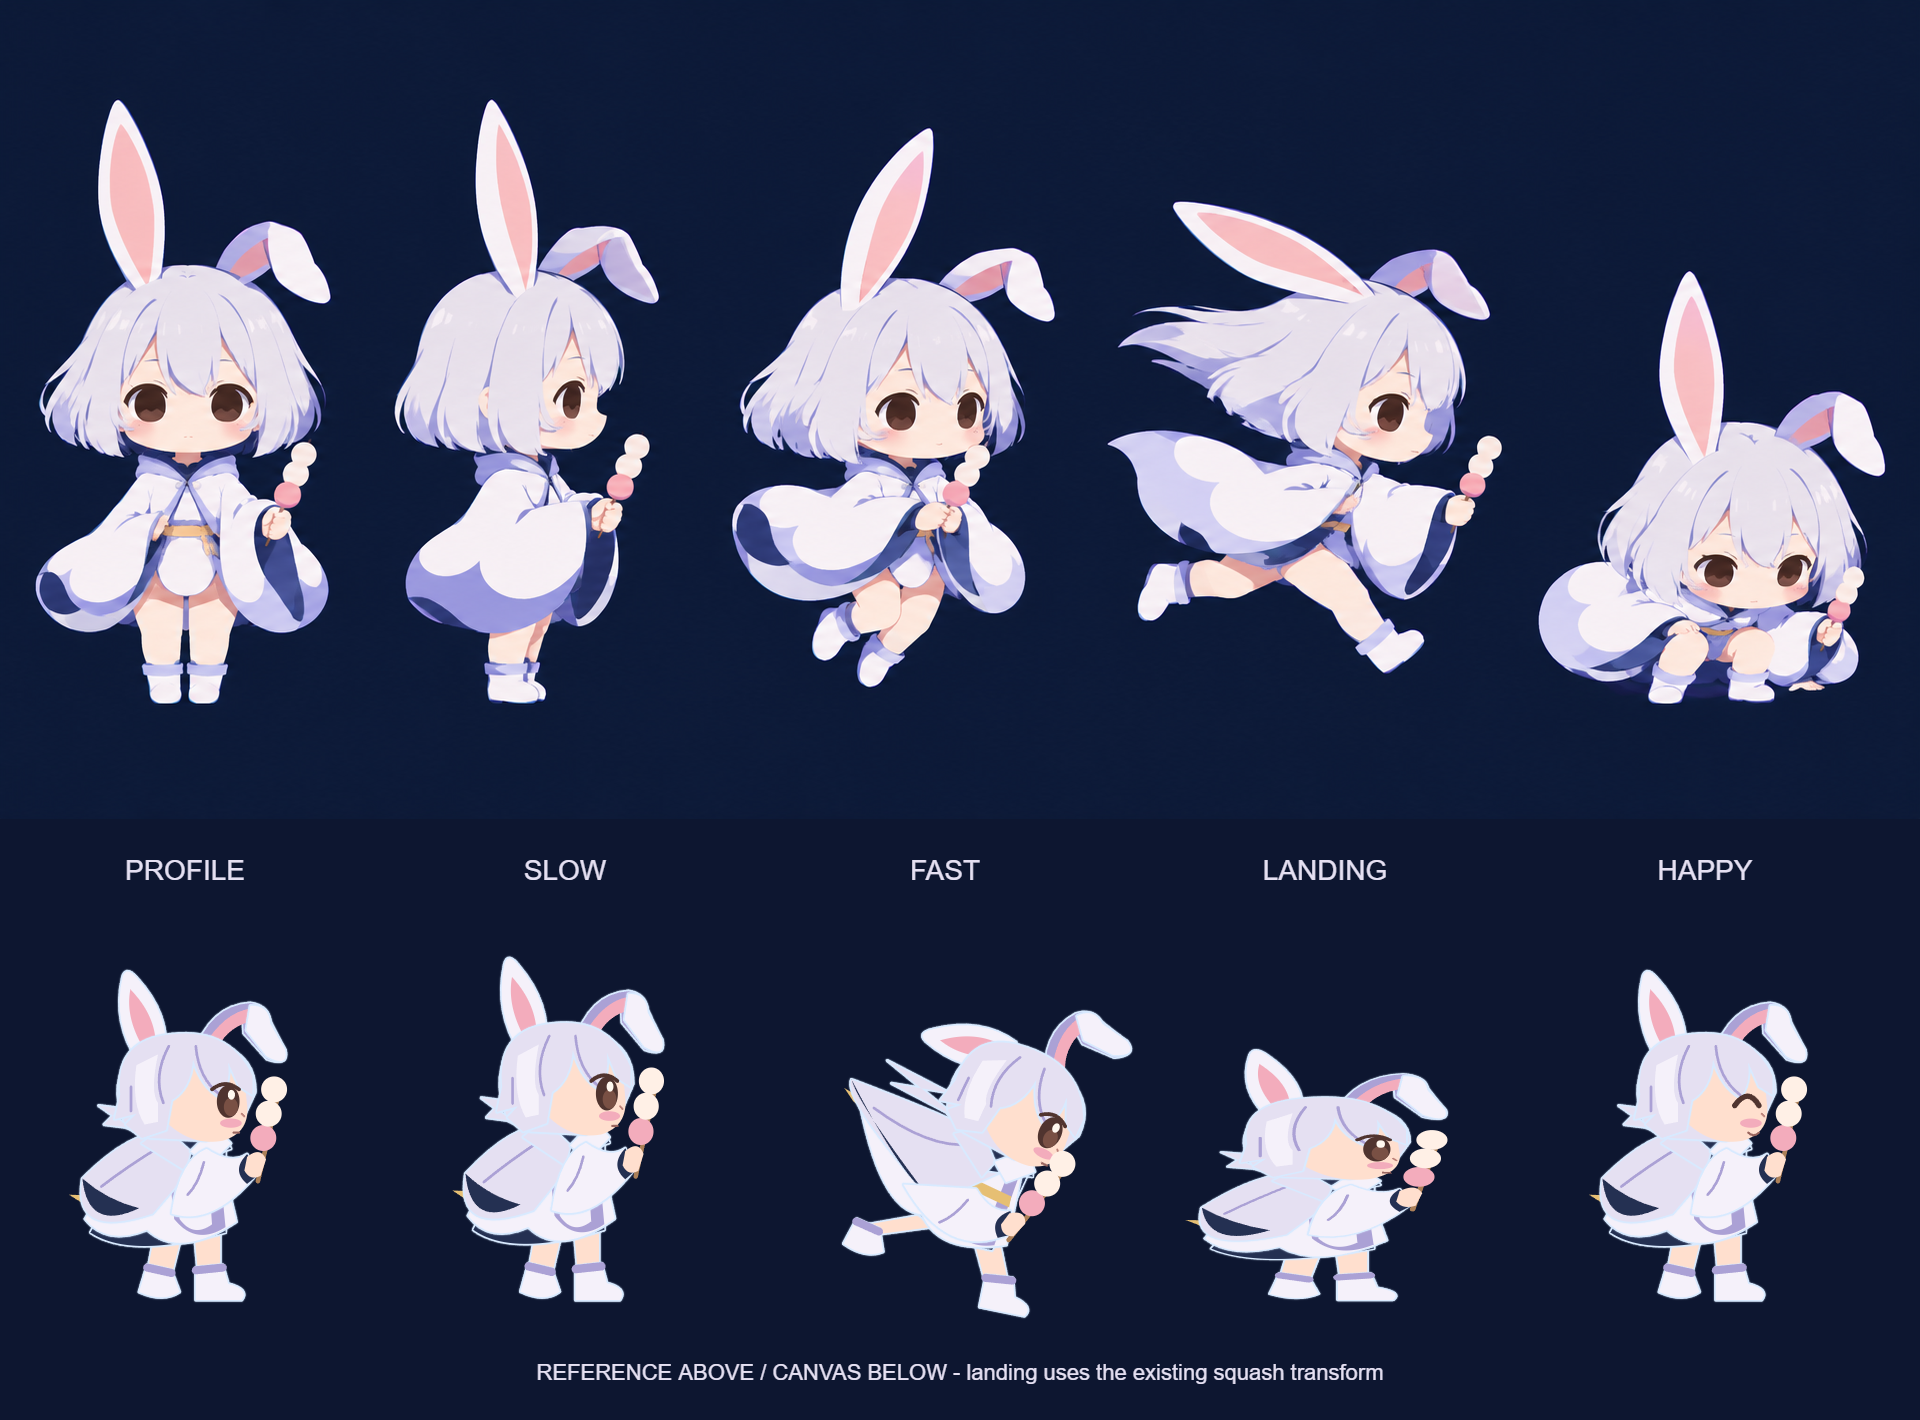
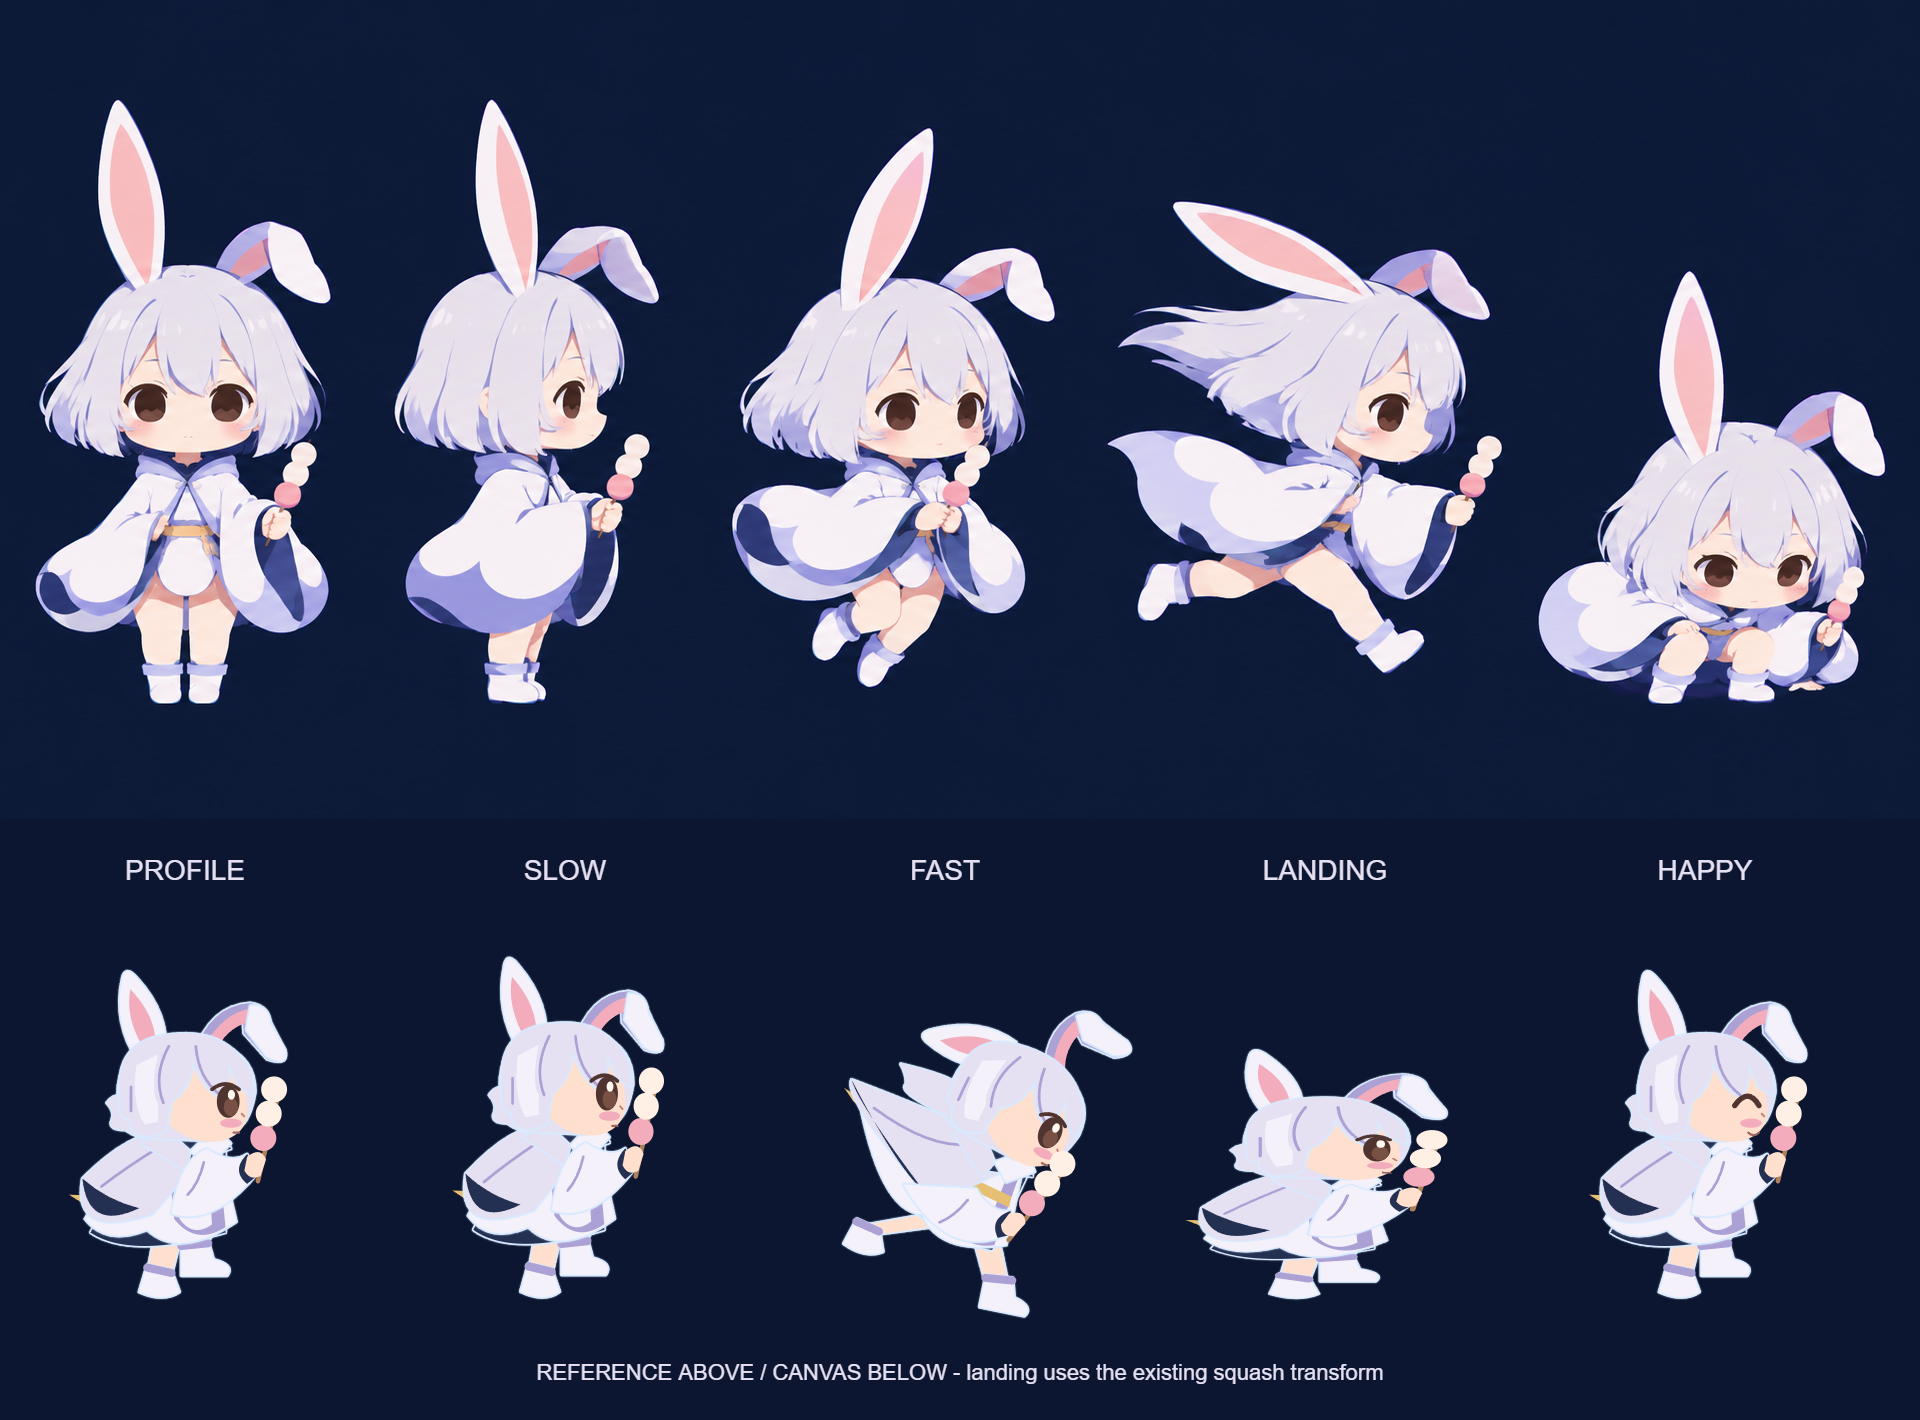
feat: Michiru sprite poses cut from the reference sheet (v0.2 polish)
Compare a refined Canvas Michiru (A) against transparent sprites cut from
michiru-sheet.png (B) in the built game at 360x640 and 320x700, and adopt B:
distinct SLOW knee-up, FAST streak, deep landing crouch and a closed-eye
happy face on the clear card. The Canvas drawing stays as the load-failure
fallback and gains a crouch, a SLOW knee tuck and rounded hair tips.
Physics, hit boxes, jump period and landing points are unchanged.

diff --git a/scripts/make_michiru_sprites.py b/scripts/make_michiru_sprites.py
@@ -1,0 +1,94 @@
+"""Cut Michiru's pose sprites out of the generated reference sheet.
+
+Reads art/generated/michiru/michiru-sheet.png (flat navy background), keys out only the
+background region connected to the image border, un-mixes the navy from soft edges and
+writes one transparent atlas: assets/img/michiru-sprites.png (+ the frame table printed
+for src/game.mjs). Requires Pillow and numpy; run from anywhere.
+"""
+from pathlib import Path
+import numpy as np
+from PIL import Image, ImageDraw
+
+base = Path(__file__).resolve().parent.parent
+sheet = Image.open(base/'art/generated/michiru/michiru-sheet.png').convert('RGB')
+rgb = np.asarray(sheet).astype(np.float32)
+bg = np.median(np.concatenate([rgb[:8].reshape(-1, 3), rgb[-8:].reshape(-1, 3)]), axis=0)
+dist = np.sqrt(((rgb-bg)**2).sum(axis=2))
+SOFT, HARD = 10.0, 46.0
+
+# Background = near-navy pixels reachable from the border. The navy sleeve linings sit
+# inside light outlines, so they are not reachable and stay opaque.
+near = Image.fromarray(np.where(dist < HARD, 255, 0).astype(np.uint8)).copy()
+for seed in [(0, 0), (sheet.width-1, 0), (0, sheet.height-1), (sheet.width-1, sheet.height-1)]:
+    ImageDraw.floodfill(near, seed, 128)
+outside = np.asarray(near) == 128
+alpha = np.ones(dist.shape, np.float32)
+alpha[outside] = np.clip((dist[outside]-SOFT)/(HARD-SOFT), 0, 1)
+# Un-premultiply the navy out of anti-aliased edges so they do not halo on other skies.
+a = np.maximum(alpha, 1e-3)[..., None]
+color = np.clip((rgb-(1-a)*bg)/a, 0, 255)
+rgba = np.dstack([color, alpha*255]).astype(np.uint8)
+
+# Split poses at empty columns.
+cols = (alpha > .5).any(axis=0)
+spans, start = [], None
+for x, on in enumerate(list(cols)+[False]):
+    if on and start is None: start = x
+    if not on and start is not None:
+        if x-start > 40: spans.append((start, x))
+        start = None
+NAMES = ['front', 'profile', 'slow', 'fast', 'land']
+assert len(spans) == len(NAMES), spans
+
+def happy_face(im, x0, y0):
+    """Clear card face: paint the front pose's open eyes over with skin, then draw closed
+    smiling eyes and a small mouth. Coordinates are in sheet pixels (front pose only)."""
+    from PIL import ImageFilter
+    skin = (255, 229, 216, 255)
+    lid = (92, 58, 50, 255)
+    mask = Image.new('L', im.size, 0)
+    md = ImageDraw.Draw(mask)
+    for cx in (146, 231):
+        md.ellipse((cx-26-x0, 378-y0, cx+26-x0, 428-y0), fill=255)
+    patch = Image.new('RGBA', im.size, skin)
+    im.paste(patch, (0, 0), mask.filter(ImageFilter.GaussianBlur(2.5)))
+    # Supersample the strokes so they stay smooth after the LANCZOS shrink.
+    k = 4
+    ink = Image.new('RGBA', (im.width*k, im.height*k), (0, 0, 0, 0))
+    d = ImageDraw.Draw(ink)
+    for cx in (146, 231):
+        d.arc(((cx-19-x0)*k, (395-y0)*k, (cx+19-x0)*k, (427-y0)*k), 200, 340, fill=lid, width=6*k)
+    d.arc(((180-x0)*k, (428-y0)*k, (198-x0)*k, (442-y0)*k), 20, 160, fill=(170, 96, 92, 255), width=3*k)
+    for cx in (140, 237):
+        d.ellipse(((cx-17-x0)*k, (427-y0)*k, (cx+17-x0)*k, (441-y0)*k), fill=(246, 160, 172, 120))
+    im.alpha_composite(ink.resize(im.size, Image.LANCZOS))
+    return im
+
+# Every pose shares one scale so the character never changes size between frames.
+SCALE, PAD = 0.36, 3
+frames, imgs = [], []
+for name, (x0, x1) in zip(NAMES, spans):
+    rows = np.where((alpha[:, x0:x1] > .5).any(axis=1))[0]
+    y0, y1 = rows[0], rows[-1]+1
+    # Foot anchor: centre of the lowest opaque band of the pose.
+    foot_cols = np.where(alpha[y1-12:y1, x0:x1].max(axis=0) > .5)[0]
+    fx = x0+(foot_cols.min()+foot_cols.max())/2
+    crop = Image.fromarray(rgba[y0:y1, x0:x1], 'RGBA')
+    variants = [(name, crop)]
+    if name == 'front':
+        variants.append(('happy', happy_face(crop.copy(), x0, y0)))
+    for vname, im in variants:
+        w, h = round(im.width*SCALE), round(im.height*SCALE)
+        imgs.append((vname, im.resize((w, h), Image.LANCZOS), (fx-x0)*SCALE, h))
+atlas_w = sum(i[1].width+PAD*2 for i in imgs)
+atlas_h = max(i[1].height for i in imgs)+PAD*2
+atlas = Image.new('RGBA', (atlas_w, atlas_h), (0, 0, 0, 0))
+x = 0
+for name, im, fx, h in imgs:
+    atlas.paste(im, (x+PAD, PAD))
+    frames.append(f"{name}:[{x+PAD},{PAD},{im.width},{im.height},{fx:.0f},{h}]")
+    x += im.width+PAD*2
+out = base/'assets/img/michiru-sprites.png'
+atlas.save(out, optimize=True)
+print('bg', bg.round(1), 'atlas', atlas.size, out.stat().st_size, 'bytes')
+print('frames={'+','.join(frames)+'}  // sx,sy,w,h,footX,footY')

diff --git a/scripts/build.py b/scripts/build.py
@@ -11,7 +11,7 @@ html=html.replace('<link rel="stylesheet" href="./style.css" />', f'<style>\n{cs
 html=html.replace('<script type="module" src="./src/game.mjs"></script>', f'<script>\n{core}\n{game}\n</script>')
 # Inline local media so the itch build stays a single file. The BGM is not committed (third-party license):
 # drop it at assets/bgm/love-it-rabbit.mp3 locally; without it the game simply plays with SFX only.
-for rel, mime in [('assets/bgm/love-it-rabbit.mp3', 'audio/mpeg'), ('assets/img/star-rabbit.png', 'image/png')]:
+for rel, mime in [('assets/bgm/love-it-rabbit.mp3', 'audio/mpeg'), ('assets/img/star-rabbit.png', 'image/png'), ('assets/img/michiru-sprites.png', 'image/png')]:
     src = base/rel
     if src.exists():
         html = html.replace('./'+rel, f'data:{mime};base64,'+base64.b64encode(src.read_bytes()).decode('ascii'))

diff --git a/docs/MOON_RABBIT_CHARACTER_v0.1.md b/docs/MOON_RABBIT_CHARACTER_v0.1.md
@@ -9,8 +9,8 @@
 **人間のような女の子＋兎耳**。普通の四足歩行ウサギではない。世界観の説明は長い文章よりタイトルの一枚絵とクリアの小さな表情で伝える。
 
 ## 見た目：固有の4要素（縮小しても残す）
-1. **耳が左右非対称**：右耳は長く立ち、左耳の先だけ少し曲がる。FASTでは両耳が後方になびく。
-2. **淡い白銀色の短い髪と頬**：眼は焦げ茶の大きな二点、口は小さい。表情は穏やか、成功した時だけ歯を見せずに笑う。
+1. **耳が左右非対称**：右耳は長く立ち、左耳は途中から先が**はっきり折れて垂れる**（約60pxでも折れが分かること。2026-10-31 改訂）。FASTでは両耳が後方になびく。
+2. **淡い白銀色の短い髪と頬**：眼は焦げ茶の**大きな瞳**（ハイライト入り）、口は小さい（2026-10-31 改訂：「二点」から変更）。表情は穏やか、成功した時だけ歯を見せずに笑う。
 3. **三日月の裾をもつ、ふわりとした衣**：月白～薄藤色の短い外套（広い袖・裾が風を受ける）、内側は紺。腰に細い金色の帯。速度で生地のシルエットが変わる。
 4. **団子**：三つ連なった月見団子を片手で持つ。小画面では「棒＋白い丸3つ」に省略。タイトル絵では盆に載った三色団子を片手で支えてもよい。操作で団子を落とす・失うというペナルティは**実装しない**。
 
@@ -18,7 +18,7 @@
 - 顔・肌：薄桃～アイボリー、耳裏：薄桜、髪：月白。
 - 衣：薄藤 #BFB7E8 と白 #F4F0E7、影：濃紺 #243052。
 - 星・三日月のアクセント：金 #FFD879（ゴールやアイテムに使う色なので面積は小さく）。
-- 団子：白2個＋薄桃1個（小さい画面では白3点）。
+- 団子：白2個＋薄桃1個。小さい画面でも三色のまま（2026-10-31 改訂）。
 - 人物の輪郭に夜空と分離する淡い青白い縁光。エフェクトが足場判定を覆わないこと。
 
 ## 3つの表情とモーション
@@ -44,6 +44,7 @@
 
 ## アート制作・受入条件
 - まず**正面／横向き／SLOW／FAST／着地**の静止小ラフを作る。参考絵とCanvas版の一致を確認。
+- **描画方式（2026-10-31 決定）**：ゲーム中・カードは参考シート `art/generated/michiru/michiru-sheet.png` から切り出した透過スプライト（`assets/img/michiru-sprites.png`、生成スクリプト `scripts/make_michiru_sprites.py`）。手書きCanvas版 `michiruShape` は画像読み込み失敗時の代替。比較は `docs/screenshots/michiru/ab/board.png`。
 - 48pxでも「兎人・片方だけ折れた耳・ふわり袖・団子」が読み取れるかテスト。
 - 生成画像をタイトル／カバーへ使う場合はプロンプト・制作経緯を記録し、itch.ioのAI利用開示を確認。
 - クロ姉はビジュアル担当。Codexは物理・コース・ソルバー担当。キャラクター変更のために物理変更はしない。

diff --git a/docs/MICHIRU_QA.md b/docs/MICHIRU_QA.md
@@ -5,6 +5,16 @@
 - `tests/michiru-captures.mjs`: ビルド済みHTMLの描画を使う再現用撮影スクリプト。コア状態と仮想時計を操作した自動確認であり、人間の試遊ではない。
 - `docs/screenshots/michiru/`: SLOW、FAST、着地、クリア、失敗、タイトル／結果カード、48px相当の比較。
 
+## v0.2 Visual Polish（2026-10-31, Claude Code）
+
+- **採用：B案（透過スプライト）**。A案（Canvas改良）とB案を、ビルド済みゲームの同一合成状態（SLOW・FAST・着地・クリア）で 360×640 と 320×700 の両方で撮影して比較した（`docs/screenshots/michiru/ab/board.png`、`tests/michiru-ab.mjs`）。B案は参考シートと同じ顔・髪・服を保ったまま、SLOW（膝を上げてふわり）／FAST（横一直線）／着地（深いしゃがみ）がシルエットだけで区別できる。A案は横顔の立ち姿ベースのため、SLOWと着地の差が小さいままだった。
+- ポーズ切替：着地前後で足が床に近い間（ホップ高さ36px未満の約0.12秒）は `land`、空中は `flow>.5` で `fast`、それ以外は `slow`。アルファのクロスフェードは異なるシルエットが重なって半透明の残像になったため、きっぱり切り替える方式にした。既存の伸び縮み・puni squash・失敗時の回転落下はそのまま乗る。FASTポーズ自体が前傾しているため、全体の傾きは0.35倍にした。
+- カード：タイトル＝正面、クリア＝目を閉じた笑顔（正面ポーズを加工）、失敗＝しゃがみ。
+- サイズ：立ち姿で約65px、SLOW約61px、FAST約51px、着地約47px（CSS px）。物理・当たり判定・ジャンプ周期・`HERO_X`・`FLOOR`・`RABBIT_SCALE`・着地点は変更なし。
+- フォールバック：アトラスの読み込みに失敗すると、`michiruShape`（A案）で描く。A案側も、SLOWの膝上げ・`crouch` 引数による脚の折りたたみと体の沈み込み・後ろ髪の尖りを丸める修正を入れた（ただし着地の沈み込みは控えめ）。読み込み失敗そのものはブラウザで再現しておらず、A案の描画を `forceCanvas` で強制して確認しただけ。
+- 検証：`node --test tests/core.test.mjs tests/star-run.test.mjs`、`python scripts/build.py`、`node tests/ui-smoke.mjs`（練習＋3画面サイズ＋入力＋3種の失敗／再挑戦）、`node tests/michiru-captures.mjs`、`node tests/michiru-ab.mjs` がすべて成功し、ページ例外もなかった。着地点の予測（NEXT）・足場・穴・ゴールが隠れていないことは比較ボードで目視確認した。人間の試遊・実機確認は未実施。
+- 設計書の更新：大きな瞳・はっきり折れる耳・三色団子・描画方式を `docs/MOON_RABBIT_CHARACTER_v0.1.md` に反映した。
+
 ## 確認結果
 
 2026-10-31 再描画（fe97dbeへのレビュー対応）:
